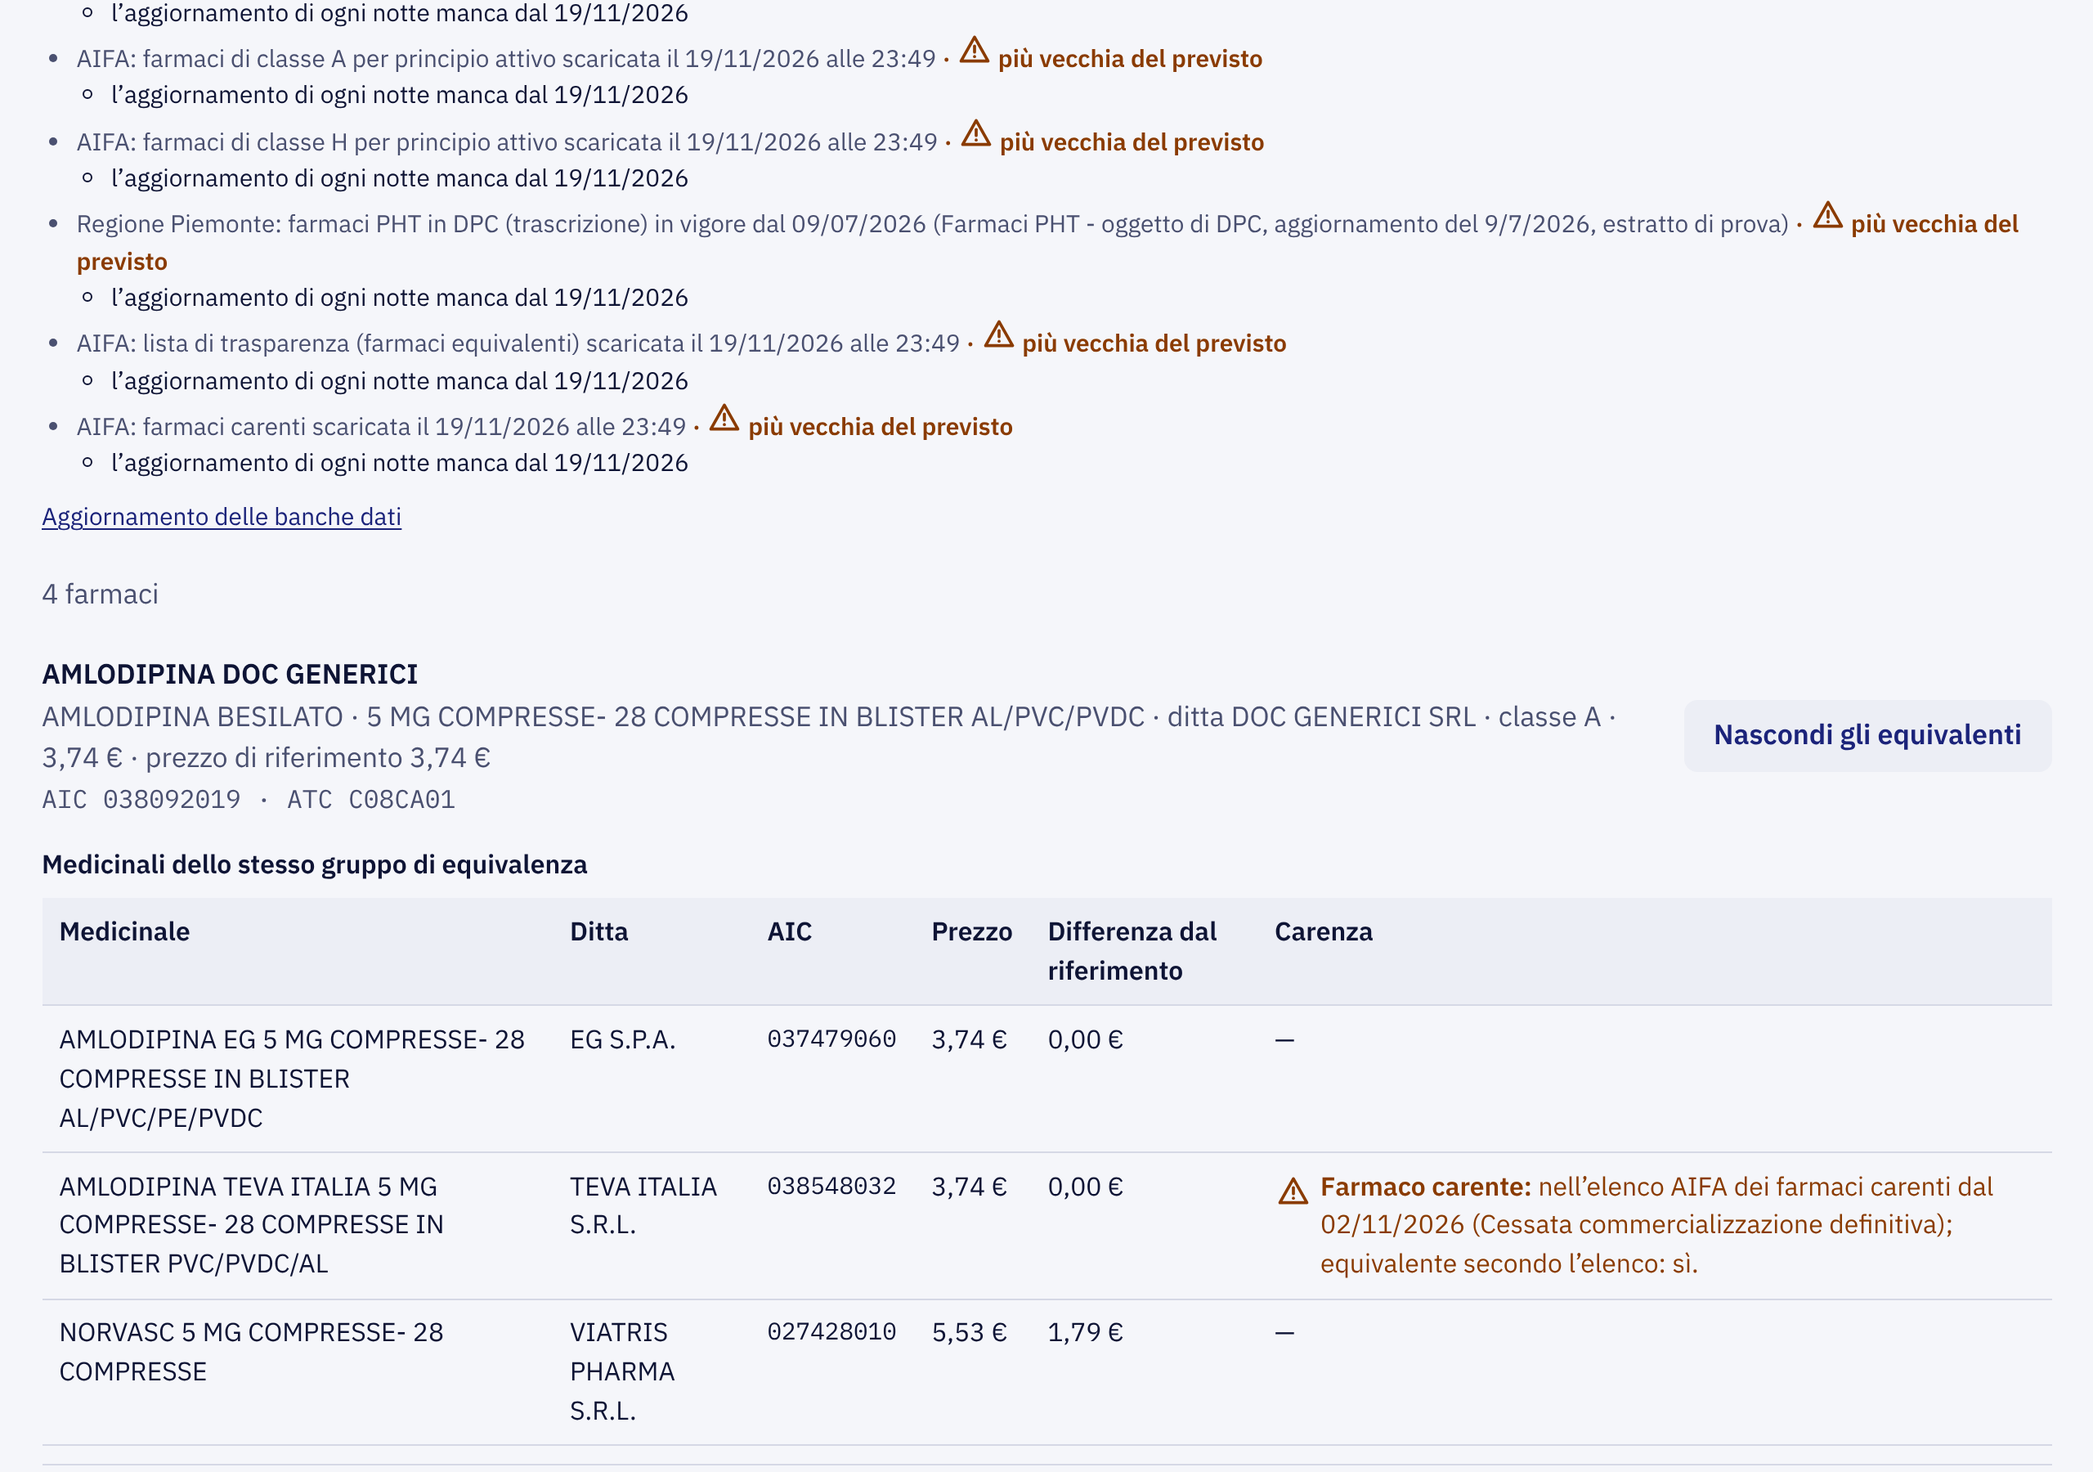
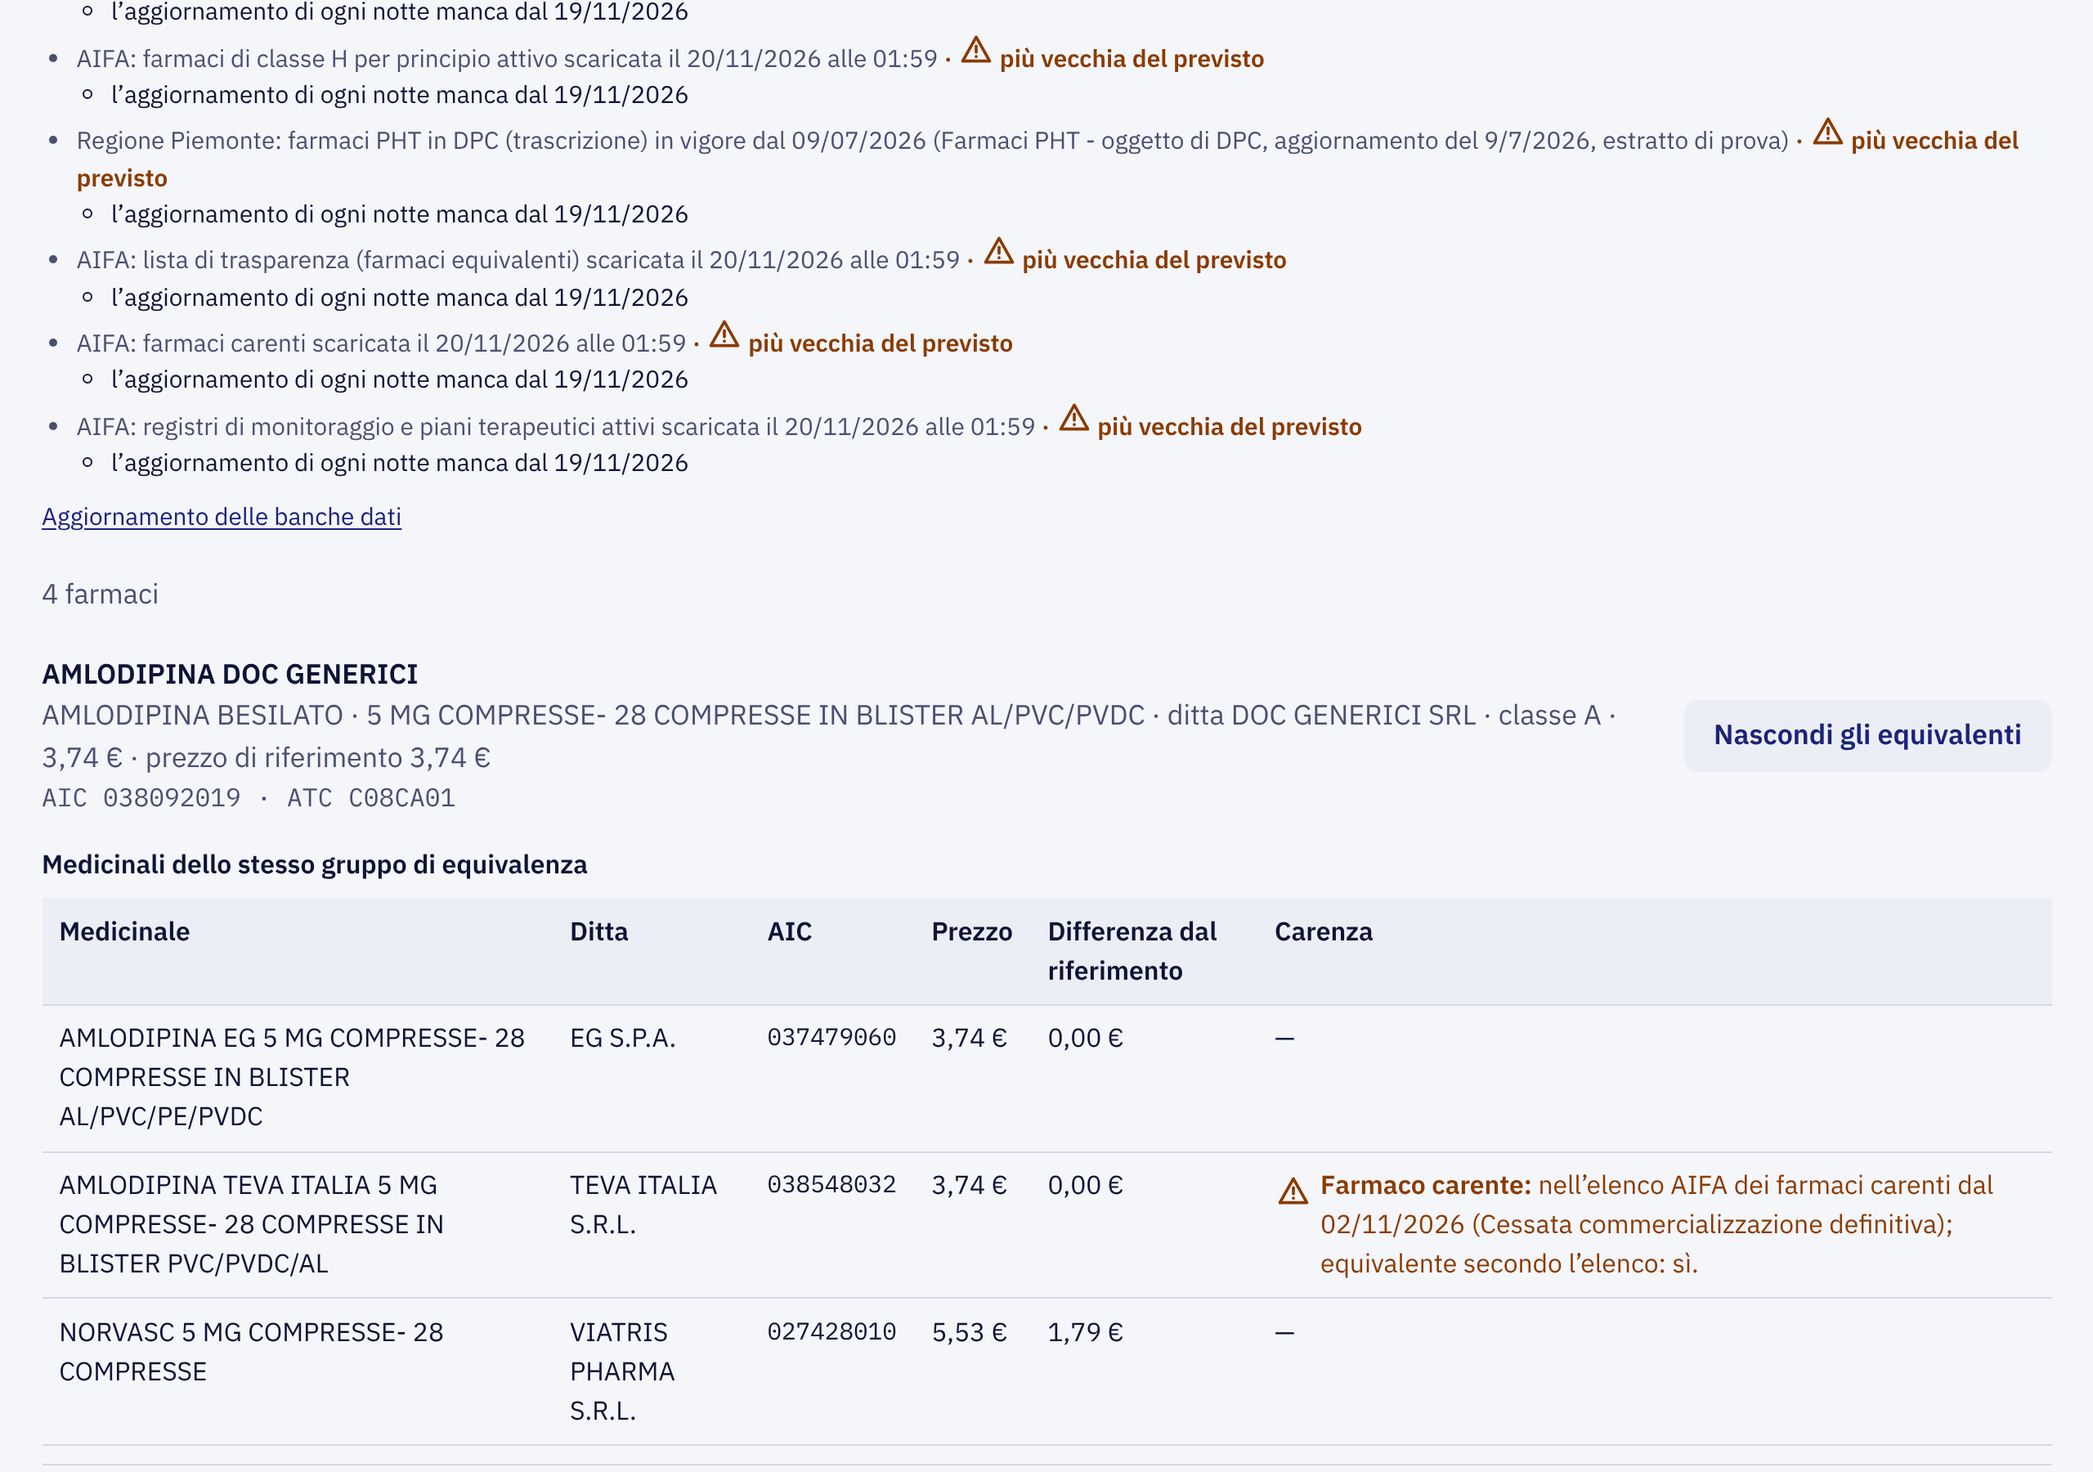
Schermate delle variazioni e dei registri AIFA; stato del blocco e domande della fermata
Schermate nuove: 70 (variazioni AIFA in Oggi, con la confezione sospesa del
sito d'esempio) e 71 (registri e piani AIFA nei dati del farmaco). La 10, la
38 e la 68 sono rifatte perché l'elenco delle banche dati in uso nomina anche
i registri; le altre, cambiate solo nelle date, restano com'erano.
Aggiornati CLAUDE.md, docs/interfaccia.md e docs/avanzamento.md, con le
domande della fermata dopo il blocco della notte.

Claude-Session: https://claude.ai/code/session_01Tv4Yo344qXk13ZKY4SDVSw

diff --git a/apps/api/test/e2e/schermate.ts b/apps/api/test/e2e/schermate.ts
@@ -989,6 +989,39 @@ try {
   });
   await shot(page, '69-farmaci-carenti-in-oggi');
 
+  // D205: lo stesso paziente prende anche la ranitidina, in una confezione che l'anagrafica AIFA
+  // d'esempio dà «Sospesa» (riga vera del 20/11/2026); in Oggi la variazione è fra le cose da fare.
+  // Per la documentazione, non per il sito: la confezione porta il nome della ditta (D149).
+  await withActor(db, me.id, (tx) =>
+    tx.execute(sql`
+      insert into therapy (patient_id, drug_aic, drug_name, active_ingredient, atc, kind, start_on,
+        created_by)
+      select patient_id, '034471021',
+        'RANITIDINA DOC GENERICI 300 MG COMPRESSE RIVESTITE CON FILM- 20 COMPRESSE',
+        'RANITIDINA CLORIDRATO', 'A02BA02', 'chronic', start_on, ${me.id}
+      from therapy where id = ${amlodipine.id}`),
+  );
+  await page.goto(base);
+  const changesHeading = page.getByRole('heading', {
+    name: 'Variazioni AIFA sui farmaci in terapia',
+  });
+  await changesHeading.waitFor();
+  await changesHeading.evaluate((el) => {
+    el.scrollIntoView({ block: 'start' });
+    window.scrollBy(0, -120);
+  });
+  await shot(page, '70-variazioni-aifa-in-oggi');
+
+  // D206: i registri e i piani terapeutici AIFA nei dati del farmaco (righe vere dell'elenco).
+  await page.goto(`${base}/banche-dati`);
+  await page.getByLabel('Nome commerciale, principio attivo, codice AIC o ATC').fill('entresto');
+  await page
+    .locator('.risultato')
+    .filter({ hasText: 'ENTRESTO' })
+    .getByRole('link', { name: 'scheda di ENTRESTO sul sito di AIFA' })
+    .waitFor();
+  await shot(page, '71-registri-aifa', true);
+
   await browser.close();
   await new Promise((ok) => web.close(ok));
   console.log(`Schermate in ${OUT}`);

diff --git a/docs/avanzamento.md b/docs/avanzamento.md
@@ -24,7 +24,8 @@ Stato del lavoro, tappa per tappa. Una sessione nuova riparte da qui e da `CLAUD
 - **Dopo l'unione della #12 (19/11/2026)**, nello stesso branch: revoca automatica e anagrafica da AURA da confermare (D198), con la correzione dei controlli in parallelo; sezione «Dopo l'unione della #12 – Revoca e anagrafica da AURA». Fermata fatta: via, pull request #13 unita (risposte in «Risposte della fermata dopo l'unione della #12»).
 - **Dopo l'unione della #13 (19/11/2026)**, nello stesso branch ripartito da `main`: nuovi assistiti da AURA, paziente temporaneo registrato in un passo solo e stato del paziente alla ricetta (D199). Fermata fatta: via, pull request #14 unita (risposte in «Risposte della fermata dopo l'unione della #13»).
 - **Dopo l'unione della #14 (19/11/2026)**, nello stesso branch: simulazione del paziente deceduto nel browser, chiesta da Simone, e cambio di medico dentro lo studio (D200). Fermata fatta: via, pull request #15 unita (risposte in «Risposte della fermata dopo l'unione della #14»).
-- **Dopo l'unione della #15 (19/11/2026)**, nello stesso branch: riepiloghi per periodo (D201) e liste AIFA che mancano, con le carenze sui farmaci in terapia e il collegamento alla farmacovigilanza (D202), come ha scelto Simone alla fermata. Sezione «Dopo l'unione della #15 – Riepiloghi per periodo e liste AIFA». Pull request #16 e fermata.
+- **Dopo l'unione della #15 (19/11/2026)**, nello stesso branch: riepiloghi per periodo (D201) e liste AIFA che mancano, con le carenze sui farmaci in terapia e il collegamento alla farmacovigilanza (D202), come ha scelto Simone alla fermata. Sezione «Dopo l'unione della #15 – Riepiloghi per periodo e liste AIFA». Fermata fatta: via, pull request #16 unita (risposte in «Risposte della fermata dopo l'unione della #15»).
+- **Dopo l'unione della #16 (notte fra il 19 e il 20/11/2026)**, nello stesso branch ripartito da `main`: prove indipendenti dalla mezzanotte e cookie della sessione con la durata (D203), riepiloghi anche alla segreteria (D204), variazioni AIFA sui farmaci in terapia (D205), registri e piani terapeutici AIFA (D206). Sezione «Dopo l'unione della #16». Pull request #17 e fermata, con le domande pronte per la mattina del 20/11/2026.
 
 **Fuori dal secondo giro, da fare dopo** (nessuno avviato):
 
@@ -32,7 +33,7 @@ Stato del lavoro, tappa per tappa. Una sessione nuova riparte da qui e da `CLAUD
 2. Specifiche e credenziali di collaudo di SAR, Sistema TS e AURA: stato di erogazione (D70), controlli formali (R10), formato dell'NRE, modulo della ricetta rossa e del promemoria. Insieme: registrazione del programma presso la Regione (codice del gestionale, autocertificazione per i due fattori) e censimento dei medici nel configuratore regionale (D103).
 3. Decisione su Ready! e sulla versione «Full» (D78).
 4. Agenda (dopo la decisione su Ready!), AURA vera (oggi con il simulatore, D197) e FSE, importazione dei dati dal software attuale (serve il formato dell'esportazione di Next² con un file d'esempio senza dati veri). Riepiloghi: fatti (D201), senza PPIP e fatture.
-5. A7 per nota, classe, piano e ritiro, e i registri AIFA. Lista di trasparenza e farmaci carenti: fatti (D202), con A7 per le carenze. La lista di trasparenza non porta la nota AIFA (correzione di D148): una fonte delle note per AIC manca ancora. Soglie di vecchiaia: fatte (D156).
+5. A7 per nota, classe, piano e ritiro: fatti (D205), come i registri AIFA (D206). Lista di trasparenza e farmaci carenti: fatti (D202), con A7 per le carenze. La lista di trasparenza non porta la nota AIFA (correzione di D148): una fonte delle note per AIC manca ancora. Soglie di vecchiaia: fatte (D156).
 6. Dicitura del tipo di accesso nella versione viva dei requisiti (D79). Collegamento alla segnalazione di farmacovigilanza: fatto (D202).
 7. Prove con lettori di schermo e tablet veri, e una giornata di lavoro con la Dr.ssa Rocca.
 
@@ -986,7 +987,20 @@ Durante la tappa 11 (terzo giro):
 
 ## Domande per la prossima fermata
 
-Da scrivere alla fine del blocco dopo l'unione della #16 (riepiloghi alla segreteria, altre variazioni AIFA, registri AIFA, prove indipendenti dalla mezzanotte). Simone le guarda la mattina del 20/11/2026, prima delle 9:15. Restano le verifiche alla fine della Dr.ssa Rocca (ICD-9-CM, catalogo regionale, allegati 8 e 7), più R19, R20 e R21.
+Fermata dopo il blocco della notte fra il 19 e il 20/11/2026 (pull request #17). Simone le guarda la mattina del 20/11/2026, prima delle 9:15. Che cosa guardare, in parole semplici:
+
+- **Variazioni AIFA** (schermata 70): se i testi sono chiari per un medico e se il modo in cui la voce si chiude va bene. Oggi la voce resta finché la terapia non è aggiornata o conclusa.
+- **Registri AIFA** (schermata 71): se le informazioni sono quelle che servono quando si prescrive, e se il collegamento per ATC (anche agli equivalenti) va bene.
+- **Riepiloghi alla segreteria** (D204): come ha scelto Simone, con il CSV, sugli archivi che l'hanno confermata.
+
+Domande:
+
+1. **Via** all'unione della pull request #17: A. Via: unisci (consigliata); B. prima delle modifiche; C. fermati qui.
+2. **Variazioni AIFA, quando la voce sparisce**: A. finché la terapia non è aggiornata o conclusa, come ora (consigliata); B. anche con un pulsante «Visto» del medico; C. dopo 30 giorni dall'aggiornamento.
+3. **Confezione sospesa alla ricetta**: oggi lo dicono la ricerca, la terapia e Oggi, non la ricetta. A. una regola che informa, come la carenza (R21) (consigliata); B. un avviso che chiede il motivo; C. nessuna regola.
+4. **Dopo**: A. pausa dopo l'unione (consigliata, come ha detto Simone); B. i registri anche nella scheda della terapia e in Oggi; C. le verifiche finali con la Dr.ssa Rocca.
+
+Restano le verifiche alla fine della Dr.ssa Rocca: ICD-9-CM, catalogo regionale, allegati 8 e 7, R19, R20, R21 e ora i testi delle variazioni e dei registri AIFA.
 
 ## Risposte della fermata dopo l'unione della #15 (19–20/11/2026)
 

diff --git a/CLAUDE.md b/CLAUDE.md
@@ -128,7 +128,7 @@ Le prove del database vogliono `DATABASE_URL`: senza, falliscono (non si saltano
 - `docs/ricetta.md`: ciclo della ricetta e integrazioni simulate.
 - `docs/regole.md`: regole di prescrizione, generate dai dati.
 - `docs/logo.md`: proposte di logo.
-- `docs/banche-dati.md`: importazione delle banche dati, mappature, trascrizioni, versioni; lista di trasparenza e farmaci carenti di AIFA (D202).
+- `docs/banche-dati.md`: importazione delle banche dati, mappature, trascrizioni, versioni; lista di trasparenza e farmaci carenti di AIFA (D202), stato delle confezioni (D205), registri e piani terapeutici AIFA (D206).
 - `docs/catalogo-regionale.md`: catalogo regionale in vigore, trascritto dai PDF, e che cosa controllare (D159).
 - `docs/icd9cm.md`: catalogo delle diagnosi ICD-9-CM (versione italiana 2007 e aggiunte COVID-19), che cosa è diverso dal PDF e che cosa controllare (D186).
 - `docs/interfaccia.md`: schermate (in `docs/schermate/`), accessibilità, che cosa manca.
@@ -180,7 +180,7 @@ Quinto blocco (via di Simone del 19/11/2026: «ok. Chiudi tutto ciò che puoi ch
 16. Le scelte della fermata dopo la tappa 15 (D181): ripristino delle credenziali di medici e segreteria anche con SPID o CIE; segreteria confermata per archivio; ritardi crescenti dopo i tentativi falliti, blocco del conto oltre una soglia alta e avviso di ogni blocco; codice fiscale del medico corretto dall'amministratore, in sospeso finché il medico conferma; ricette di altri programmi contate in R11 e R6; scheda intera non riservata nell'AFT; elenchi dello studio scritti dai medici e dall'amministratore.
 17. Diagnosi ICD-9-CM con la ricerca per descrizione (la tabella del Ministero si importa quando si può scaricare) e allegati del DPCM LEA (7, 8, 10, 4D) come trascrizioni controllate. **Fermata dopo la tappa 17**, con lo stesso giro (domande con il pulsante, via, unione).
 
-Fermata dopo la tappa 17 fatta (D191): via, pull request #9 unita. Le verifiche di Simone e della Dr.ssa Rocca si fanno alla fine. Dopo l'unione, nello stesso branch: banche dati aggiornate da chi gestisce il servizio, con il pulsante «Aggiorna adesso» che resta all'amministratore dello studio (D192, D194), soglie dei tentativi confermate, motivo del ritorno da SPID o CIE scritto dal programma (D193). Dopo l'unione della #10: allegato 7 trascritto (D195); l'elenco esenzioni–prestazioni del SAR non si importa perché precedente al nuovo nomenclatore (D196). Fermata dopo l'unione della #10 fatta: via, pull request #11 unita; poi, nello stesso branch, AURA con un simulatore (D197). Fermata dopo l'unione della #11 fatta: via, pull request #12 unita; poi revoca automatica e anagrafica da AURA da confermare (D198). Fermata dopo l'unione della #12 fatta: via, pull request #13 unita; poi nuovi assistiti da AURA, paziente temporaneo in «Nuovo paziente» e stato del paziente alla ricetta (D199). Fermata dopo l'unione della #13 fatta: via, pull request #14 unita; poi la simulazione del deceduto nel browser e il cambio di medico dentro lo studio, con l'avviso in Oggi e lo spostamento confermato dal titolare di prima (D200). Fermata dopo l'unione della #14 fatta: via, pull request #15 unita; poi, nello stesso branch, i riepiloghi per periodo (D201) e le liste AIFA che mancano, con le carenze sui farmaci in terapia, la regola R21 e il collegamento alla farmacovigilanza (D202): pull request #16. Domande per la prossima fermata in `docs/avanzamento.md`.
+Fermata dopo la tappa 17 fatta (D191): via, pull request #9 unita. Le verifiche di Simone e della Dr.ssa Rocca si fanno alla fine. Dopo l'unione, nello stesso branch: banche dati aggiornate da chi gestisce il servizio, con il pulsante «Aggiorna adesso» che resta all'amministratore dello studio (D192, D194), soglie dei tentativi confermate, motivo del ritorno da SPID o CIE scritto dal programma (D193). Dopo l'unione della #10: allegato 7 trascritto (D195); l'elenco esenzioni–prestazioni del SAR non si importa perché precedente al nuovo nomenclatore (D196). Fermata dopo l'unione della #10 fatta: via, pull request #11 unita; poi, nello stesso branch, AURA con un simulatore (D197). Fermata dopo l'unione della #11 fatta: via, pull request #12 unita; poi revoca automatica e anagrafica da AURA da confermare (D198). Fermata dopo l'unione della #12 fatta: via, pull request #13 unita; poi nuovi assistiti da AURA, paziente temporaneo in «Nuovo paziente» e stato del paziente alla ricetta (D199). Fermata dopo l'unione della #13 fatta: via, pull request #14 unita; poi la simulazione del deceduto nel browser e il cambio di medico dentro lo studio, con l'avviso in Oggi e lo spostamento confermato dal titolare di prima (D200). Fermata dopo l'unione della #14 fatta: via, pull request #15 unita; poi, nello stesso branch, i riepiloghi per periodo (D201) e le liste AIFA che mancano, con le carenze sui farmaci in terapia, la regola R21 e il collegamento alla farmacovigilanza (D202). Fermata dopo l'unione della #15 fatta: via, pull request #16 unita; poi, nello stesso branch, le prove indipendenti dalla mezzanotte (D203), i riepiloghi anche alla segreteria (D204), le variazioni AIFA sui farmaci in terapia (D205) e i registri AIFA (D206): pull request #17. Domande per la prossima fermata in `docs/avanzamento.md`.
 
 ## Come si chiude
 

diff --git a/docs/interfaccia.md b/docs/interfaccia.md
@@ -83,6 +83,8 @@ All'accesso si sceglie un utente del seed (`medico`, `segreteria`, `sostituto`);
 | ![](schermate/67-riepiloghi.png)                                | Riepiloghi dell'archivio per periodo: visite e contatti, ricette inviate, cartacee e annullate, vaccinazioni, per medico, con il CSV dello stesso periodo (D201)                                                                                                                                                        |
 | ![](schermate/68-farmaco-carente-ed-equivalenti.png)            | Ricerca dei farmaci: la confezione nell'elenco AIFA dei carenti, con le indicazioni e l'annotazione dell'elenco; gli equivalenti con la differenza dal prezzo di riferimento e la carenza. Per la documentazione: ha i nomi delle ditte (D149, D202)                                                                    |
 | ![](schermate/69-farmaci-carenti-in-oggi.png)                   | Oggi, fra le cose da fare: i farmaci in terapia che sono nell'elenco AIFA dei carenti, con i pazienti che li prendono (A7, D202). Per la documentazione: ha il nome della ditta                                                                                                                                         |
+| ![](schermate/70-variazioni-aifa-in-oggi.png)                   | Oggi, fra le cose da fare: le variazioni AIFA sui farmaci in terapia, qui una confezione che l'anagrafica AIFA dà «Sospesa», con i pazienti (A7, D205). Per la documentazione: ha il nome della ditta                                                                                                                   |
+| ![](schermate/71-registri-aifa.png)                             | Dati del farmaco: i registri e i piani terapeutici AIFA per lo stesso ATC, con tipo, data, patologia, indicazione rimborsata e la scheda sul sito di AIFA (D206)                                                                                                                                                        |
 
 Le schermate si rigenerano con `test/e2e/schermate.ts` (istruzioni in testa al file), su un database appena preparato con il seed.
 
